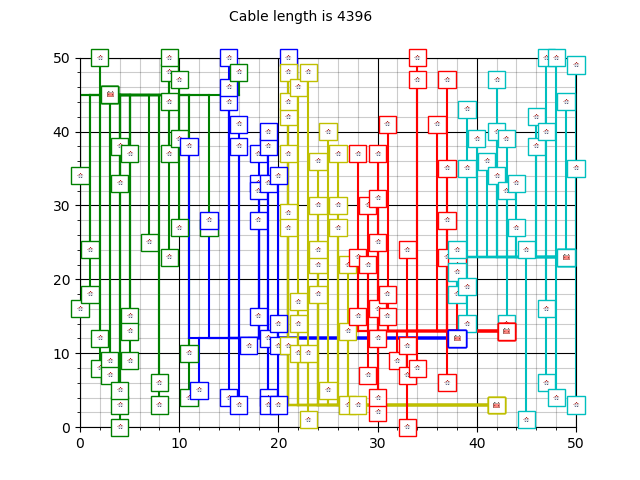
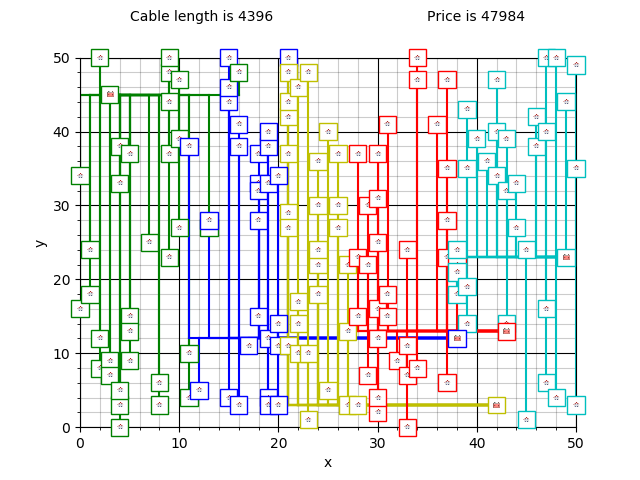
now with total price

Changed region(s): [[0.2188, 0.0, 0.5938, 0.0625], [0.6562, 0.0, 0.8125, 0.0625]]

diff --git a/plot_grid.py b/plot_grid.py
@@ -1,6 +1,7 @@
 from matplotlib.offsetbox import AnnotationBbox, OffsetImage
 from matplotlib._png import read_png
 import matplotlib.pyplot as plt
+import math
 
 def plot_grid(houses, batteries):
 
@@ -40,19 +41,23 @@ def plot_grid(houses, batteries):
 		plt.plot([h_x, b_x], [b_y, b_y], color = colors[house.battery_no], linestyle='-')
 		cable_length += abs(b_x - h_x)
 	
-	for battery in batteries:
+	# start calculating the cost
+	cost = int(cable_length) * 9;
 	
-		# add the battery images
-		for battery in batteries:
-			ab = AnnotationBbox(battery_img, [battery.x, battery.y],
+	# add the battery images
+	for battery in batteries:
+		ab = AnnotationBbox(battery_img, [battery.x, battery.y],
 			xybox=(0, 0),
 			xycoords='data',
 			boxcoords="offset points",
 			bboxprops = dict(ec=colors[battery.name]))                                  
-			ax.add_artist(ab)
-		
+		ax.add_artist(ab)
+		# add the battery cost to the cost
+		cost += int((math.log(battery.voltage, math.e)*649.21) - 3066.2)
+	
 	print cable_length
-
+	print cost
+	
 	# make the major and minor grid
 	plt.grid(b=True, which='major', color='k', linestyle='-')
 	plt.grid(b=True, which='minor', color='k', linestyle='-', alpha=0.2)
@@ -62,6 +67,7 @@ def plot_grid(houses, batteries):
 	plt.axis([0, 50, 0, 50])
 	plt.xticks([0, 10, 20, 30, 40, 50])
 	plt.yticks([0, 10, 20, 30, 40, 50])
-	plt.text(15, 55, "Cable length is " + str(cable_length))
+	plt.text(10, 55, "Cable length is " + str(cable_length))
+	plt.text(35, 55, "Price is " + str(cost))
 	
 	return plt
